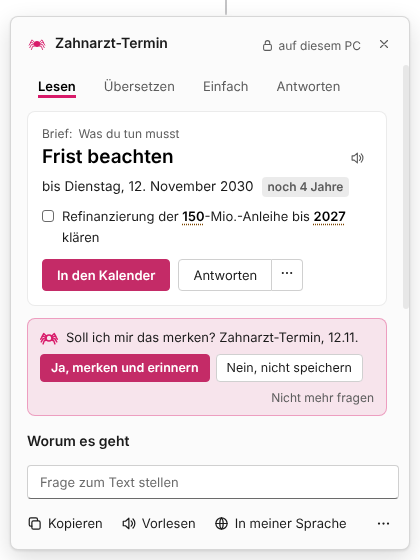
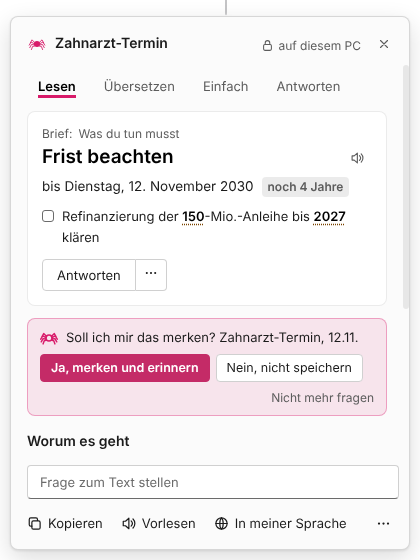
Nachfrage: Ja trägt zugleich in den Kalender ein und merkt in der App, Kalender-Knopf entfällt
Claude-Session: https://claude.ai/code/session_018X3vF4DRXnVWkkiuHjQhFh

Changed region(s): [[0.0929, 0.4554, 0.4333, 0.5464], [0.4643, 0.4857, 0.619, 0.5161], [0.619, 0.4554, 0.65, 0.4857]]

diff --git a/src/popup.html b/src/popup.html
@@ -437,7 +437,7 @@
     if (cand.length) {
       const c = cand[0], when = new Date(`${c.iso}T00:00:00`).toLocaleDateString(I18N.locale, { day: 'numeric', month: 'numeric' });
       const what = `${String(c.title || '').slice(0, 40)}, ${when}${cand.length > 1 ? ` ${T('(+{n} weitere)', { n: cand.length - 1 })}` : ''}`;
-      Q.unshift({ id: 'frist', text: T('Soll ich mir das merken? {w}', { w: what }), yes: T('Ja, merken und erinnern'), no: T('Nein, nicht speichern'), run: async () => { await window.spider.deadlineSave(P.doc); return T('Gemerkt. Ich erinnere dich rechtzeitig ✓'); } });
+      Q.unshift({ id: 'frist', text: T('Soll ich mir das merken? {w}', { w: what }), yes: T('Ja, merken und erinnern'), no: T('Nein, nicht speichern'), run: async () => { await window.spider.deadlineSave(P.doc); return T('Gemerkt und im Kalender. Ich erinnere dich rechtzeitig ✓'); } });
     }
     return Q.find((q) => ok(q.id)) || null;
   }
@@ -454,6 +454,7 @@
     const el = $('askBack');
     el.innerHTML = `<div class="askq rise" role="group" aria-label="${T('Frage der Spinne')}"><div class="qt">${silkIcon('pro')}<p>${esc(q.text)}</p></div>
       <div class="row"><button class="btn primary" data-q="yes">${esc(q.yes)}</button><button class="btn" data-q="no">${esc(q.no)}</button><button class="link dim" data-q="mute">${T('Nicht mehr fragen')}</button></div></div>`;
+    if (q.id === 'frist') document.querySelectorAll('[data-ldl],[data-dl]').forEach((b) => { b.hidden = true; }); // Ja macht beides: Kalender und merken
     let answered = false;
     el.addEventListener('click', async (e) => {
       const a = e.target.closest('[data-q]')?.dataset.q; if (!a) return;

diff --git a/src/main.js b/src/main.js
@@ -2455,9 +2455,12 @@ ipcMain.handle('deadline-save', (_e, doc) => {
   if (!h) return false;
   collectDeadlines(); // legt st.saved an
   const st = loadDeadlineState();
+  const neu = deadlinesOf(h).filter((d) => daysUntil(d.iso) >= 0 && !st.saved[d.key]);
   for (const d of deadlinesOf(h)) st.saved[d.key] = 1;
   saveDeadlineState(st);
   updateDeadlineBadge();
+  // Nach dem Ja kommt der Termin gleich in den Kalender (eine Datei, die du dort bestätigst)
+  if (neu.length) openIcs('Silkreader-Frist.ics', neu.map((d) => ({ title: `${T('Frist')}: ${d.title}`, date: d.iso, note: d.sentence }))).catch(() => {});
   return true;
 });
 ipcMain.handle('learn-thumbs', (_e, good) => { thumbsDownRun = good ? 0 : thumbsDownRun + 1; return thumbsDownRun; });

diff --git a/src/i18n.js b/src/i18n.js
@@ -383,6 +383,7 @@
     'Ja, merken und erinnern': 'Yes, remember and remind me',
     'Nein, nicht speichern': 'No, do not save',
     'Gemerkt. Ich erinnere dich rechtzeitig ✓': 'Saved. I will remind you in time ✓',
+    'Gemerkt und im Kalender. Ich erinnere dich rechtzeitig ✓': 'Saved and sent to your calendar. I will remind you in time ✓',
     'Morgens kurz die Fristen der Woche zeigen': 'Show this week’s deadlines briefly in the morning',
     'Hoher Kontrast': 'High contrast',
     'Hell · Grau': 'Light · Grey',

diff --git a/store/BILDER.md b/store/BILDER.md
@@ -16,7 +16,7 @@ Bilder in `bilder/1.29.0/`. Vorher = Stand 1.28.0, Nachher = main.
 | Privatmodus (Einstellungen › Erweitert): „nichts speichern, beim Beenden alles löschen“ | – (neu) | ![](bilder/1.29.0/Privatmodus-neu.png) |
 | Knopf „Outlook-Mail“ im Startfenster (nur Windows; hier mit dem Markup der App nachgebaut, da Test unter Linux) | – (neu) | ![](bilder/1.29.0/Outlook-Knopf-neu.png) |
 | Vorlesen-Leiste (Satz zurück/vor, „Original vorlesen“ liest den ganzen Brief mit Zeilenumbrüchen) | ![](bilder/1.29.0/Vorlesen-vorher.png) | ![](bilder/1.29.0/Vorlesen-nachher.png) |
-| Nachfrage „Soll ich mir das merken?“ aufgeräumt (kleinere Karte, Buttons nebeneinander, nichts mehr abgeschnitten) | ![](bilder/1.29.0/Termin-Nachfrage-aufgeraeumt-vorher.png) | ![](bilder/1.29.0/Termin-Nachfrage-aufgeraeumt-nachher.png) |
+| Nachfrage „Soll ich mir das merken?“ aufgeräumt (kleinere Karte, Buttons nebeneinander, nichts abgeschnitten; Ja trägt zugleich in den Kalender ein und merkt in der App, der Knopf „In den Kalender“ entfällt) | ![](bilder/1.29.0/Termin-Nachfrage-aufgeraeumt-vorher.png) | ![](bilder/1.29.0/Termin-Nachfrage-aufgeraeumt-nachher.png) |
 
 ## 1.27.0 (Release läuft)
 
